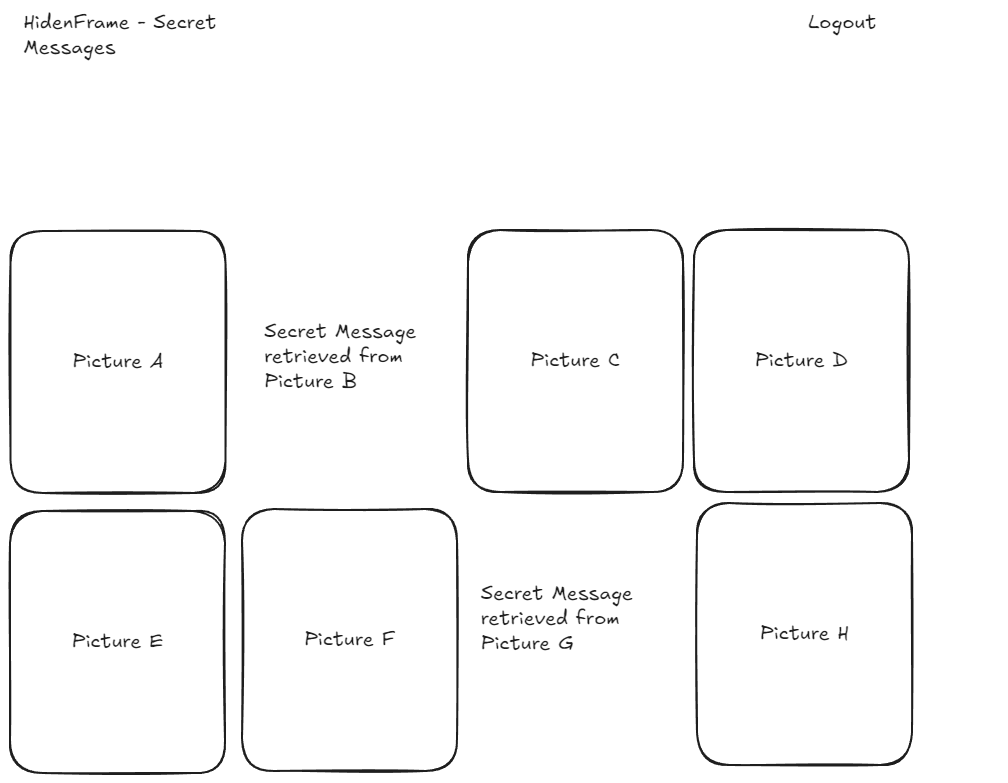
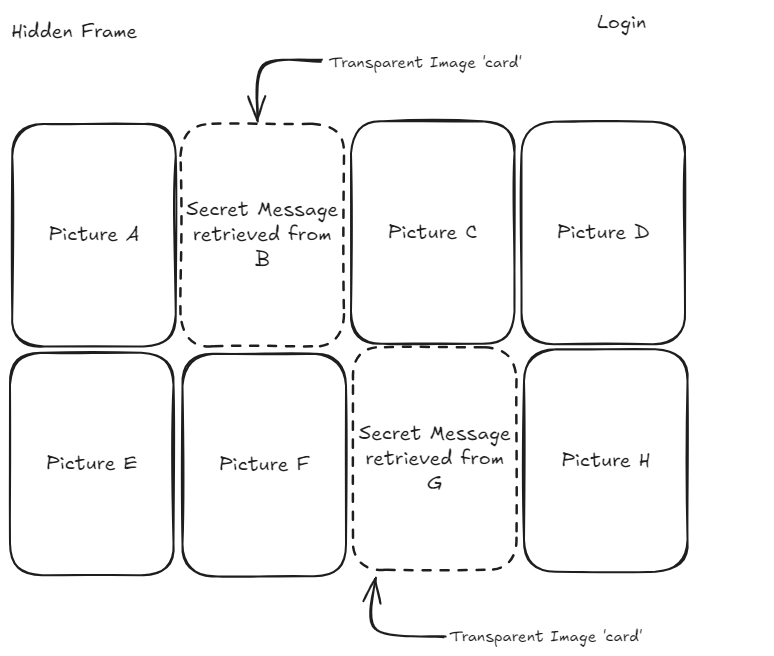
Updated image, and corrected some spelling

diff --git a/proposal.md b/proposal.md
@@ -13,7 +13,7 @@ Patrick Candy - candy.pat@gmail.com
 
 Project HiddenFrame is, in brief, a picture board (like pintrest), that will use various technologies like DBMS, WebRTC, APIs and also acts as a secret message board by using stenography. HiddenFrame will be publicly accessible and encourage the general public to share photographic content; meanwhile select users will be using HiddenFrame's true capabilities to exchange pictures encoded with hidden data. (Which only a select few will know about)
 
-HiddenFrame will achieve its purpose by first providing an attractive social media experience, in order to attract as many users as possible and thereby provide better obstrufucation for the secret messages. The secret messages, section of the site will access controlled and allow users to communicate covertly.
+HiddenFrame will achieve its purpose by first providing an attractive social media experience, in order to attract as many users as possible and thereby provide better obscurification for the secret messages. The secret messages, section of the site will access controlled and allow users to communicate covertly.
 
 ## Target audience and motivation
 
